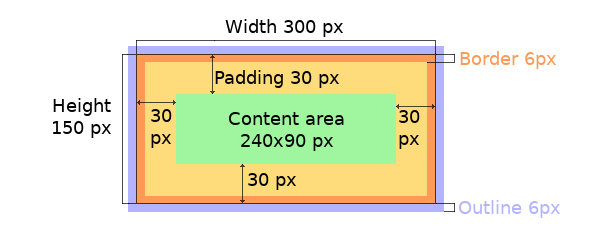
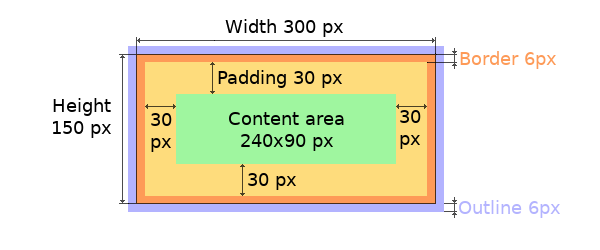
docs(coords) update the box model

diff --git a/docs/overview/coords.md b/docs/overview/coords.md
@@ -5,12 +5,14 @@
 # Positions, sizes, and layouts
 
 ## Overview
-Similarly to many other parts of LVGL, the concept of setting the coordinates were inspired by CSS. It doesn't mean a perfect copy of the standard but parts that are reasonable were adopted in LVGL.
+Similarly to many other parts of LVGL, the concept of setting the coordinates were inspired by CSS. It doesn't mean a perfect copy of the standard but subsets of CSS were implemented (sometimes with minor adjustments).
 It shorts it means:
 - the set coordinates (size, position, layouts, etc) are stored in styles
 - support min-width, max-width, min-height, max-height
 - have pixel, percentage, and "content" units 
-- a subset of flexbox and grid layouts are supported by default 
+- x=0; y=0 coordinate means the to top-left corner of the parent plus the left/top padding plus border width
+- width/height means the full size, the "content area" is smaller with padding and border width 
+- a subset of flexbox and grid layouts are supported
  
 ###  Units
 - pixel: Simply a position in pixels. A simple integer always mean pixel. E.g. `lv_obj_set_x(btn, 10)`
@@ -18,14 +20,16 @@ It shorts it means:
 - `LV_SIZE_CONTENT`: Special value to set the width/height of an object to involve all the children. Its similar to `auto` in CSS. E.g. `lv_obj_set_width(btn, LV_SIZE_CONTENT)`.
 
 ### Boxing model
+LVGL follows CSS's [border-box](https://developer.mozilla.org/en-US/docs/Web/CSS/box-sizing) model.
 An object's "box" is built from the following parts:
 - bounding box: the width/height of the elements.
+- border width: the width of the border. 
 - padding: space between the sides of the object and its children. 
-- content: the content area which size if the bounding box reduced by the size of the paddings.
+- content: the content area which size if the bounding box reduced by the border width and the size of the paddings.
 
-![The box models of LVGL: The content area is smaller then the bounding box with the padding](/misc/boxmodel.png)
+![The box models of LVGL: The content area is smaller then the bounding box with the padding and border width](/misc/boxmodel.png)
 
-The border is drawn inside the bounding box and doesn't take an extra space. (It's different from CSS in which increasing the border width makes the object larger.)
+The border is drawn inside the bounding box. Inside the border LVGL keeps "padding size" to place the children. 
 
 The outline is drawn outside of the bounding box.
 
@@ -36,26 +40,8 @@ This section describes special cases in which LVGL's behavior might look unexpec
 LVGL doesn't recalculate all the coordinate changes immediately to improve performance. 
 Instead, the objects are marked as "dirty" and before redrawing the screen LVGL checks if there are any "dirty" objects. If so it refreshes their position, size and layout.
 
-The following functions set size/position immediately:
-- `lv_obj_set_pos/x/y`
-- `lv_obj_set_size/width/height`
-- `lv_obj_set_content_width/height`
-- `lv_obj_align` 
-- `lv_obj_set_align` 
-- `lv_obj_align_to` 
-
-So if you don't use any complex feature (e.g. layouts) you don't have to worry about postponed layout recalculation. 
-
-However, if the coordinates are set by a style or layout the recalculation will be delayed.
-
-In some special cases even if the coordinates are set the by the above listed functions they can be incorrect. 
-For example if the width of an object is set in the percentage of parent width (e.g. `lv_pct(80)`) and the parent's size is set by a layout the child size might use non-updated size from the parent. 
-It will be recalculated automatically before the next screen redraw but if you need the final coordinates immediately after changing the coordinates and see incorrect values you need to use
-```c
-lv_obj_unpdate_layout(obj);
-``` 
-
-As the it can be seen form the above example the sizes and positions might depends on each other, therefore `lv_obj_unpdate_layout(obj)` recalculates the coordinates of all objects on the screen of `obj`.
+In other words, if you need to get the any coordinate of an object and it the coordinates were just changed LVGL's needs to be forced to recalculate to coordinates. 
+To do this call `lv_obj_update_layout(obj)`the size and position might depends on the parent or layout `lv_obj_update_layout` recalculates the coordinates of all objects on the screen of `obj`.
 
 #### Removing styles
 As it's described in the [Using styles](#using-styles) section the coordinates can be set via style properties too. 
